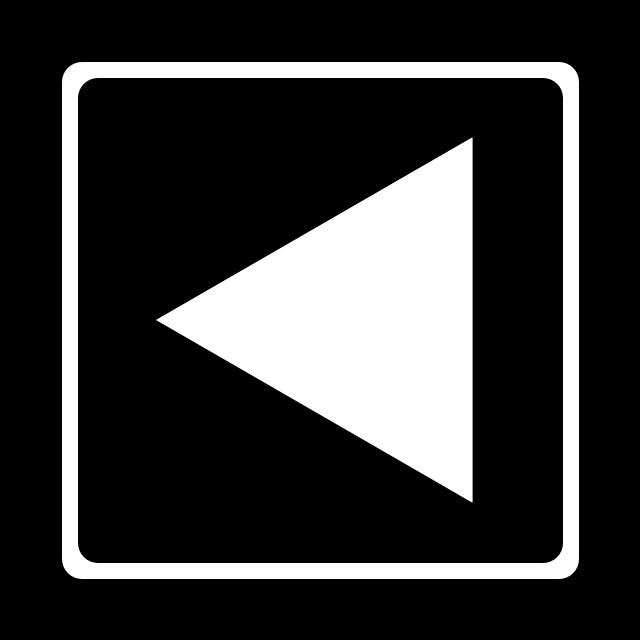
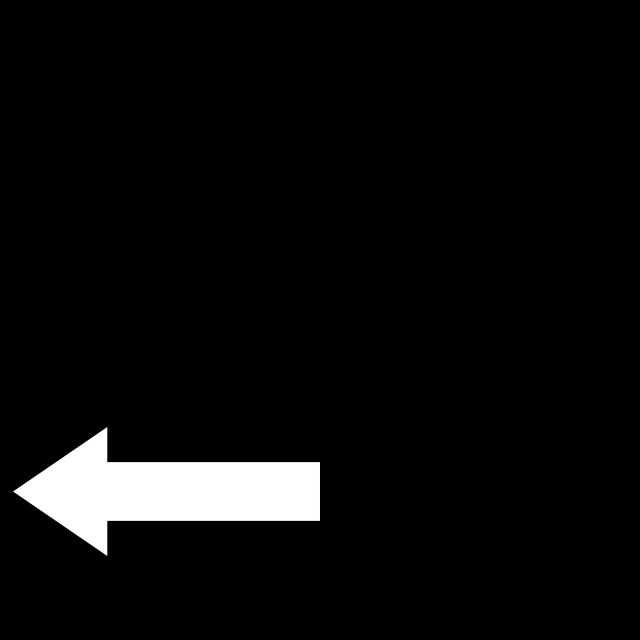
changed the turns image

Changed region(s): [[0.25, 0.2188, 0.75, 0.7812], [0.0312, 0.0938, 0.9062, 0.9062]]

diff --git a/Server/yasvvm.cpp b/Server/yasvvm.cpp
@@ -58,8 +58,8 @@ vector <string> read_directory(const string & path = string()){
 }
 
 void add_frames(IplImage* a, IplImage* b, CvVideoWriter* writer, int sub_frame_number){
-    IplImage* interpoled = cvCreateImage(cvGetSize(b), b->depth, b->nChannels);
-    cvAddWeighted(a, 0.5, b, 0.5, 0.0, interpoled);
+    //IplImage* interpoled = cvCreateImage(cvGetSize(b), b->depth, b->nChannels);
+    //cvAddWeighted(a, 0.5, b, 0.5, 0.0, interpoled);
     cvWriteFrame(writer, a);
     //cvWriteFrame(writer, interpoled);
     //cvWriteFrame(writer, b);

diff --git a/php_api/get_video_link.php b/php_api/get_video_link.php
@@ -9,5 +9,5 @@
         json_ok($link);
     }
     else
-        json_ok("Link doesn't exists");
+        json_error("Link doesn't exists");
 ?>
